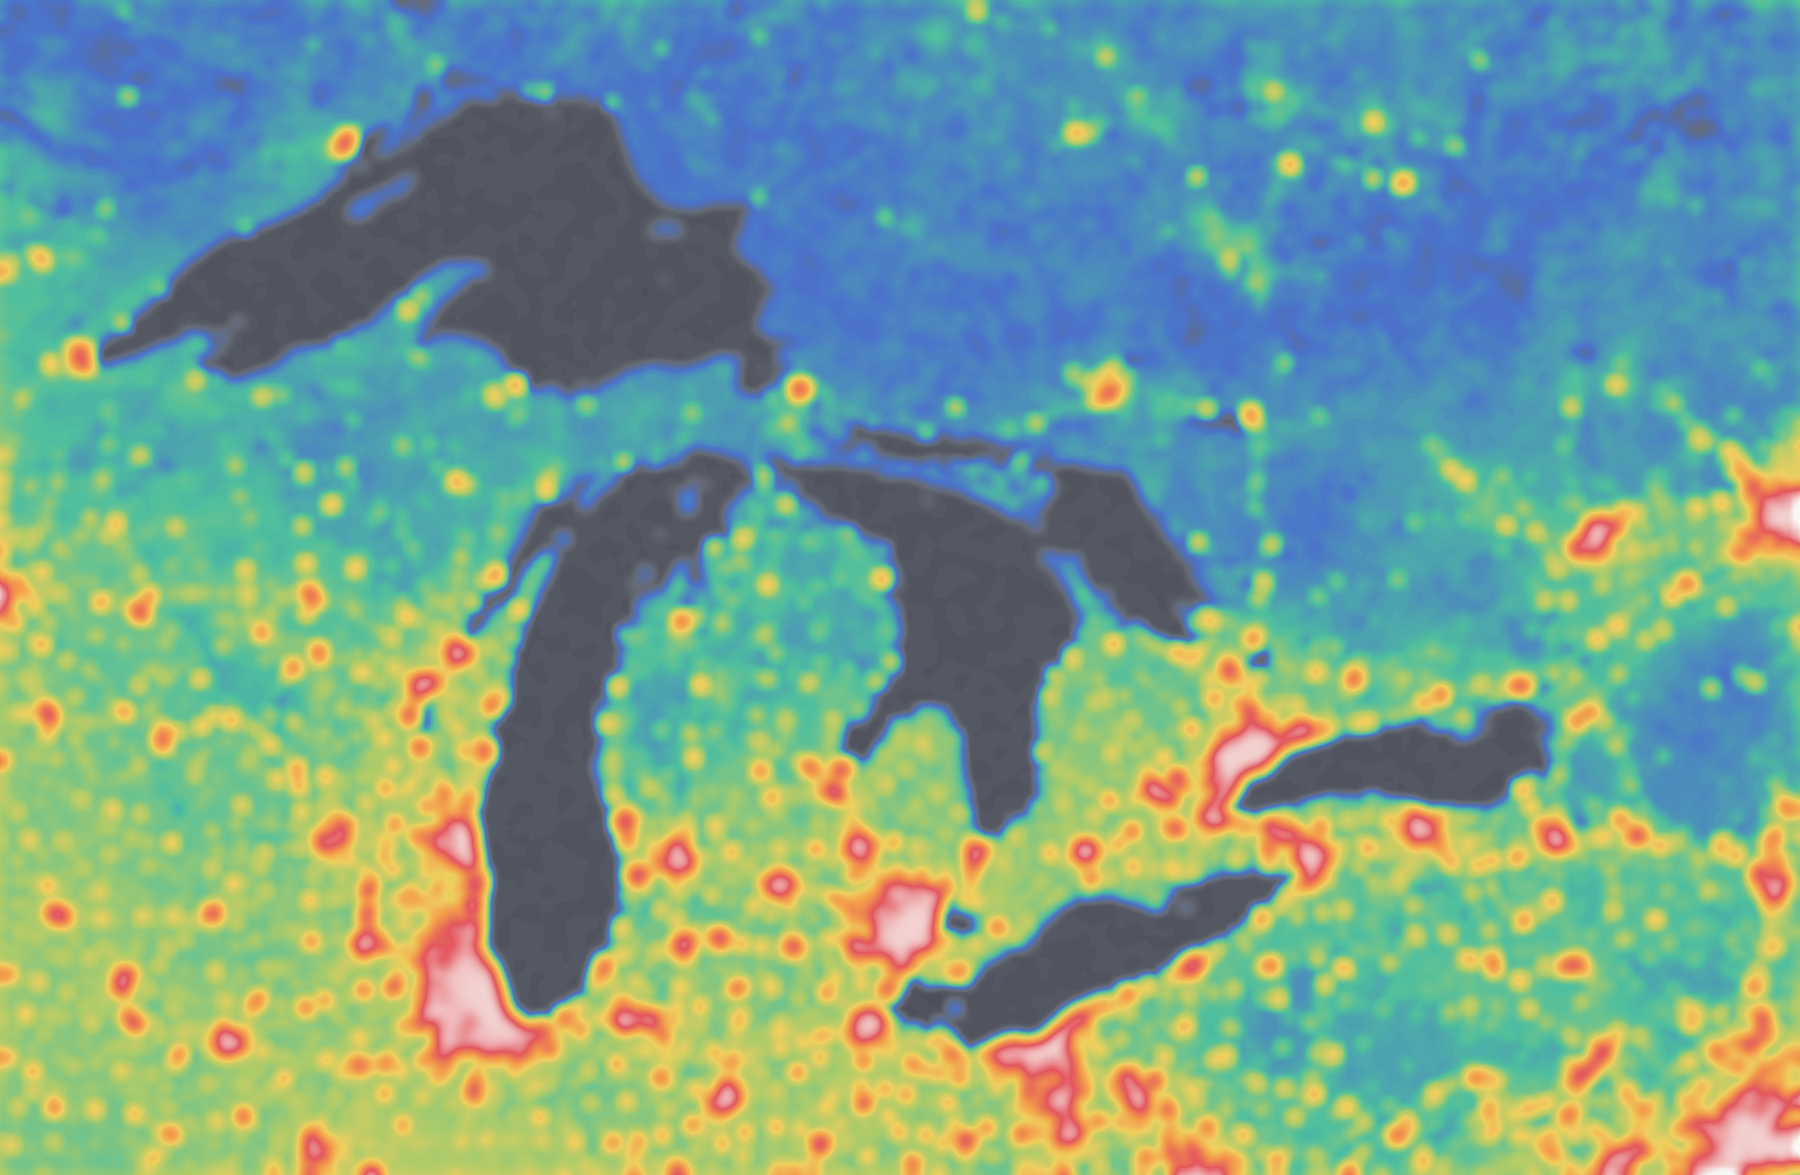
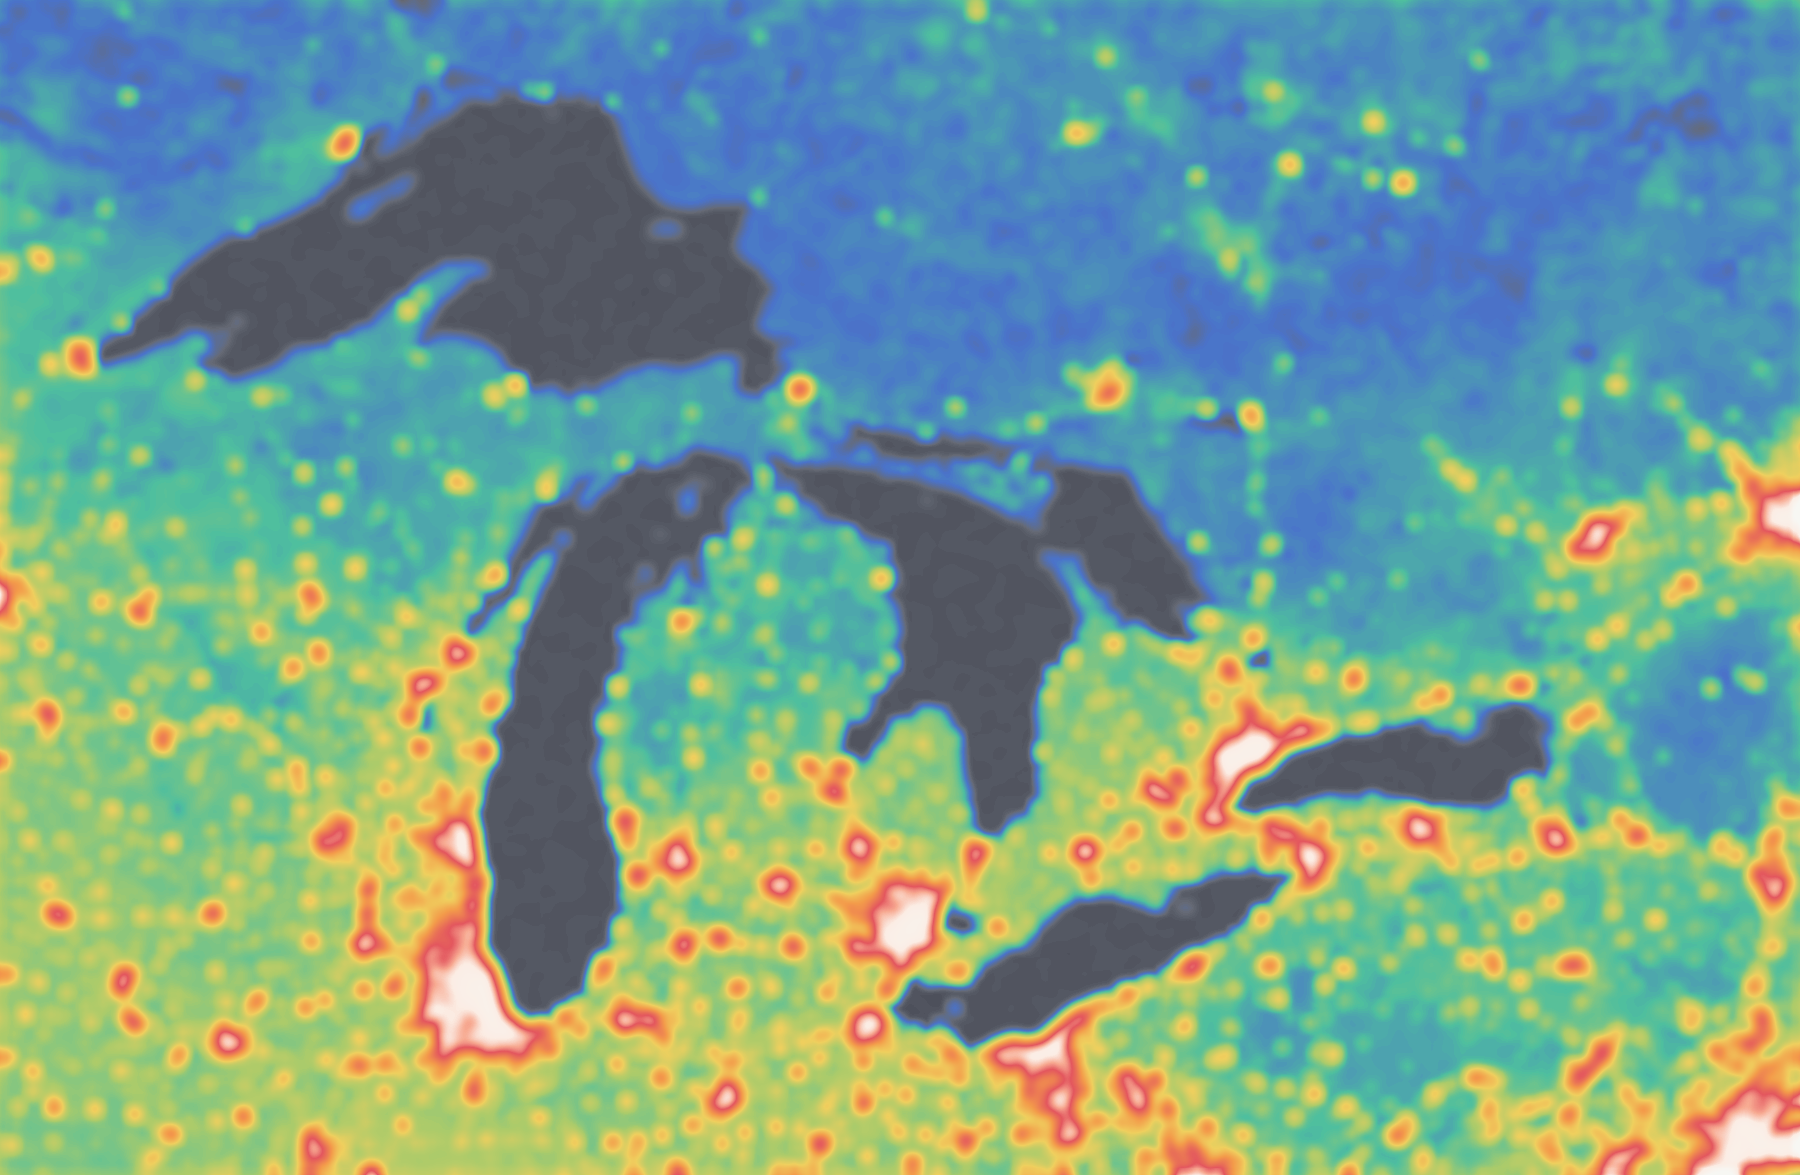
Light pollution: crisper bloom, distinct Bortle 1-5 hues
- Bloom tightened (radius 10x3 -> 6x2, ~4 km sigma): metro glow stays
  readable, map no longer blurry.
- Bortle 1-5 given widely separated hues (near-black / slate gray /
  blue / teal-green / olive) so dark skies read apart; 6-9 gold /
  orange / red / white retained; B9 shoulder added so the key cell
  matches map cores. Key follows automatically (midpoint sampling).
  g4 render tag force-reloads clients.

diff --git a/scripts/build_light_pollution.py b/scripts/build_light_pollution.py
@@ -57,7 +57,9 @@ STOPS = [
     (36.0, (235, 195, 55)),   # B6 bright suburban: gold
     (52.0, (240, 130, 30)),   # B7 transition: orange
     (72.0, (220, 45, 55)),    # B8 city: red
-    (100.0, (245, 245, 240)), # B9 inner city: near-white
+    (82.0, (245, 150, 120)),  # B8/B9 shoulder: salmon (fast ramp to white)
+    (90.0, (250, 232, 222)),  # B9 inner city: near-white well before the top
+    (100.0, (245, 245, 240)), # B9 extreme core: white
 ]
 LABELS = [(0.0, "LOWEST 0 pristine"), (25.0, "25"), (50.0, "50"),
           (75.0, "75"), (100.0, "HIGHEST+ 100 urban")]
